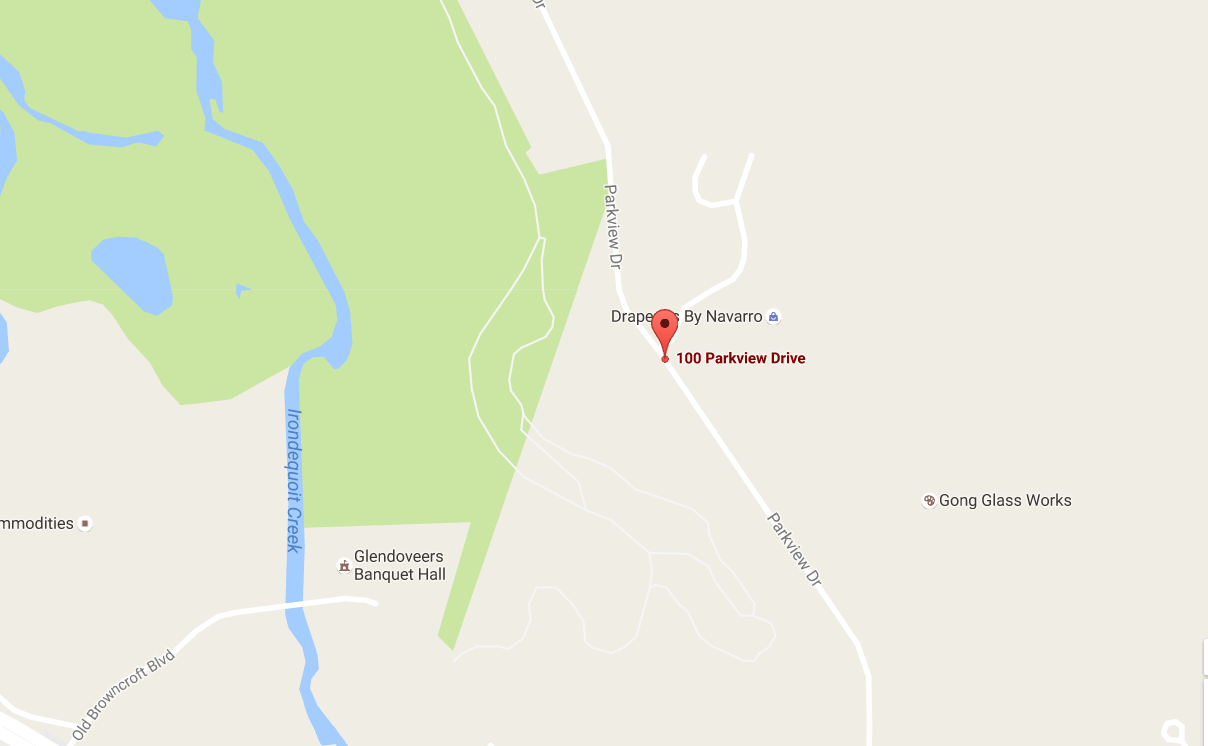
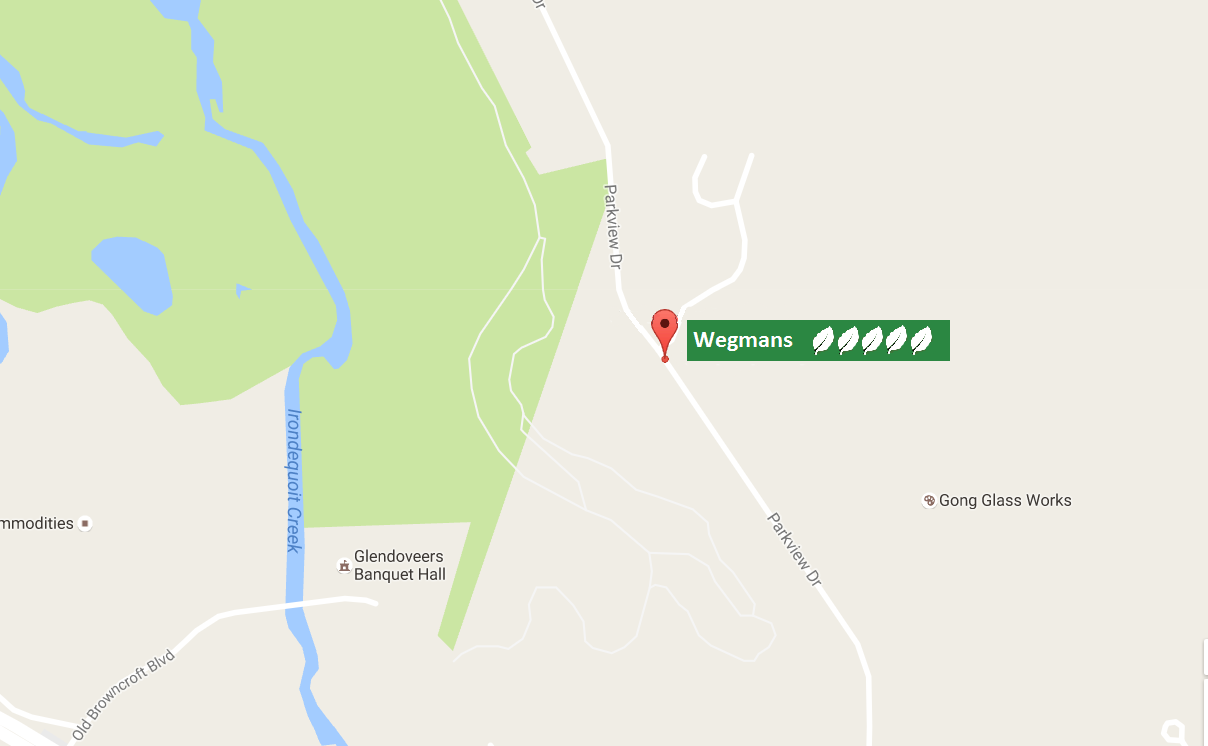
map and search updated

Changed region(s): [[0.4901, 0.4008, 0.7964, 0.4933]]

diff --git a/client/views/searchresults.html b/client/views/searchresults.html
@@ -5,175 +5,37 @@
 
     <div class="col-md-4 Filter" >
         <h1 class="liberation-sans">Filter by</h1>
-        <form>
             <input type="checkbox" name="filter" value="Business">Business<br>
             <input type="checkbox" name="filter" value="Product">Product<br>
             <input type="checkbox" name="filter" value="Rated">Rated<br>
             <div class="Tabbed">
-                <input type="checkbox" name="filter" value="5leaf">5 Leafs<br>
-                <input type="checkbox" name="filter" value="4leaf">4 Leafs<br>
-                <input type="checkbox" name="filter" value="3leaf">3 Leafs<br>
-                <input type="checkbox" name="filter" value="2leaf">2 Leafs<br>
-                <input type="checkbox" name="filter" value="1leaf">1 Leaf<br>
+                <input type="checkbox" name="filter" ng-model="check.rating['5']" value="5">5 Leafs<br>
+                <input type="checkbox" name="filter" ng-model="check.rating['4']" value="4">4 Leafs<br>
+                <input type="checkbox" name="filter" ng-model="check.rating['3']" value="3">3 Leafs<br>
+                <input type="checkbox" name="filter" ng-model="check.rating['2']" value="2">2 Leafs<br>
+                <input type="checkbox" name="filter" ng-model="check.rating['1']" value="1">1 Leaf<br>
             </div>
-        </form>
     </div>
 
     <div class="col-md-8">
 
-            <h1 class="liberation_sans">Search<input type="text">11 Results Found</h1>
+            <h1 class="liberation_sans">Search<input ng-model = "search"></h1>
             <table>
-                <tr onclick="window.location = '/#/product';" style="background-color: #2b8742; height: 50px">
-                    <td style="width: 500px; text-indent: 50px; color: white">
-                        Cabbage
+                <tr  ng-repeat="i in items | filter:search" ng-model="i" ng-class-odd="'odd'" ng-class-even="'even'" >
+                    <td class="Col1">
+                        <a href="/#/product/{{i.id}}" style="color:black">{{i.name}}</a>
                     </td>
-                    <td style="background-color: gray; width: 200px; text-align: left">
-                        <img style="height: 30px" src="../assets/review_leaf_filled.png"/>
-                        <img style="height: 30px" src="../assets/review_leaf_filled.png"/>
-                        <img style="height: 30px" src="../assets/review_leaf_filled.png"/>
-                        <img style="height: 30px" src="../assets/review_leaf_filled.png"/>
+                    <td ng-class-odd="'oddCol2'" ng-class-even="'evenCol2'">
+                        <span><img style="height: 30px" ng-src="{{i.rating >= 1 ? '../assets/review_leaf_filled.png' : '../assets/review_leaf_empty.png'}}"></span>
+                        <span><img style="height: 30px" ng-src="{{i.rating >= 2 ? '../assets/review_leaf_filled.png' : '../assets/review_leaf_empty.png'}}"></span>
+                        <span><img style="height: 30px" ng-src="{{i.rating >= 3 ? '../assets/review_leaf_filled.png' : '../assets/review_leaf_empty.png'}}"></span>
+                        <span><img style="height: 30px" ng-src="{{i.rating >= 4 ? '../assets/review_leaf_filled.png' : '../assets/review_leaf_empty.png'}}"></span>
+                        <span><img style="height: 30px" ng-src="{{i.rating >= 5 ? '../assets/review_leaf_filled.png' : '../assets/review_leaf_empty.png'}}"></span>
                     </td>
-                    <td style="width: 200px; text-align: right; position: relative; right: 50px">
-                        Product
-                    </td>
-                </tr>
-                <tr onclick="window.location = '/#/businessview';" style="background-color: white; height: 50px">
-                    <td style="width: 500px; text-indent: 50px">
-                        Wegmans
-                    </td>
-                    <td style="background-color: #a9a9a9; width: 200px; text-align: left">
-                        <img style="height: 30px" src="../assets/review_leaf_filled.png"/>
-                        <img style="height: 30px" src="../assets/review_leaf_filled.png"/>
-                        <img style="height: 30px" src="../assets/review_leaf_filled.png"/>
-                        <img style="height: 30px" src="../assets/review_leaf_filled.png"/>
-                        <img style="height: 30px" src="../assets/review_leaf_filled.png"/>
-                    </td>
-                    <td style="width: 200px; text-align: right; position: relative; right: 50px">
-                        Business
-                    </td>
-                </tr>
-                <tr onclick="window.location = '/#/product';" style="background-color: #2b8742; height: 50px">
-                    <td style="width: 500px; text-indent: 50px; color: white">
-                        Best Potato
-                    </td>
-                    <td style="background-color: gray; width: 200px; text-align: left">
-                        <img style="height: 30px" src="../assets/review_leaf_filled.png"/>
-                        <img style="height: 30px" src="../assets/review_leaf_filled.png"/>
-                        <img style="height: 30px" src="../assets/review_leaf_filled.png"/>
-                    </td>
-                    <td style="width: 200px; text-align: right; position: relative; right: 50px">
-                        Product
-                    </td>
-                </tr>
-                <tr onclick="window.location = '/#/product';" style="background-color: white; height: 50px">
-                    <td style="width: 500px; text-indent: 50px">
-                        Carrots
-                    </td>
-                    <td style="background-color: #a9a9a9; width: 200px; text-align: left">
-                        <img style="height: 30px" src="../assets/review_leaf_filled.png"/>
-
-                    </td>
-                    <td style="width: 200px; text-align: right; position: relative; right: 50px">
-                        Product
-                    </td>
-                </tr>
-                <tr onclick="window.location = '/#/product';" style="background-color: #2b8742; height: 50px">
-                    <td style="width: 500px; text-indent: 50px; color: white">
-                        Beer
-                    </td>
-                    <td style="background-color: gray; width: 200px; text-align: left">
-                        <img style="height: 30px" src="../assets/review_leaf_filled.png"/>
-                        <img style="height: 30px" src="../assets/review_leaf_filled.png"/>
-                        <img style="height: 30px" src="../assets/review_leaf_filled.png"/>
-                    </td>
-                    <td style="width: 200px; text-align: right; position: relative; right: 50px">
-                        Product
-                    </td>
-                </tr>
-                <tr onclick="window.location = '/#/product';" style="background-color: white; height: 50px">
-                    <td style="width: 500px; text-indent: 50px">
-                        Apples
-                    </td>
-                    <td style="background-color: #a9a9a9; width: 200px; text-align: left">
-                        <img style="height: 30px" src="../assets/review_leaf_filled.png"/>
-                        <img style="height: 30px" src="../assets/review_leaf_filled.png"/>
-                        <img style="height: 30px" src="../assets/review_leaf_filled.png"/>
-                        <img style="height: 30px" src="../assets/review_leaf_filled.png"/>
-                        <img style="height: 30px" src="../assets/review_leaf_filled.png"/>
-                    </td>
-                    <td style="width: 200px; text-align: right; position: relative; right: 50px">
-                        Product
-                    </td>
-                </tr>
-                <tr onclick="window.location = '/#/product';" style="background-color: #2b8742; height: 50px">
-                    <td style="width: 500px; text-indent: 50px; color: white">
-                        Steak
-                    </td>
-                    <td style="background-color: gray; width: 200px; text-align: left">
-                        <img style="height: 30px" src="../assets/review_leaf_filled.png"/>
-                        <img style="height: 30px" src="../assets/review_leaf_filled.png"/>
-                        <img style="height: 30px" src="../assets/review_leaf_filled.png"/>
-                    </td>
-                    <td style="width: 200px; text-align: right; position: relative; right: 50px">
-                        Product
-                    </td>
-                </tr>
-                <tr onclick="window.location = '/#/product';" style="background-color: white; height: 50px">
-                    <td style="width: 500px; text-indent: 50px">
-                        Cheese
-                    </td>
-                    <td style="background-color: #a9a9a9; width: 200px; text-align: left">
-                        <img style="height: 30px" src="../assets/review_leaf_filled.png"/>
-                        <img style="height: 30px" src="../assets/review_leaf_filled.png"/>
-                        <img style="height: 30px" src="../assets/review_leaf_filled.png"/>
-                        <img style="height: 30px" src="../assets/review_leaf_filled.png"/>
-                    </td>
-                    <td style="width: 200px; text-align: right; position: relative; right: 50px">
-                        Product
-                    </td>
-                </tr>
-                <tr onclick="window.location = '/#/product';" style="background-color: #2b8742; height: 50px">
-                    <td style="width: 500px; text-indent: 50px; color: white">
-                        Good Potato
-                    </td>
-                    <td style="background-color: gray; width: 200px; text-align: left">
-                        <img style="height: 30px" src="../assets/review_leaf_filled.png"/>
-                        <img style="height: 30px" src="../assets/review_leaf_filled.png"/>
-                        <img style="height: 30px" src="../assets/review_leaf_filled.png"/>
-                    </td>
-                    <td style="width: 200px; text-align: right; position: relative; right: 50px">
-                        Product
-                    </td>
-                </tr>
-                <tr onclick="window.location = '/#/product';" style="background-color: white; height: 50px">
-                    <td style="width: 500px; text-indent: 50px">
-                        Pineapple
-                    </td>
-                    <td style="background-color: #a9a9a9; width: 200px; text-align: left">
-                        <img style="height: 30px" src="../assets/review_leaf_filled.png"/>
-                        <img style="height: 30px" src="../assets/review_leaf_filled.png"/>
-                        <img style="height: 30px" src="../assets/review_leaf_filled.png"/>
-                        <img style="height: 30px" src="../assets/review_leaf_filled.png"/>
-                        <img style="height: 30px" src="../assets/review_leaf_filled.png"/>
-                    </td>
-                    <td style="width: 200px; text-align: right; position: relative; right: 50px">
-                        Product
-                    </td>
-                </tr>
-                <tr onclick="window.location = '/#/product';" style="background-color: #2b8742; height: 50px">
-                    <td style="width: 500px; text-indent: 50px; color: white">
-                        Crackers
-                    </td>
-                    <td style="background-color: gray; width: 200px; text-align: left">
-                        <img style="height: 30px" src="../assets/review_leaf_filled.png"/>
-                        <img style="height: 30px" src="../assets/review_leaf_filled.png"/>
-
-                    </td>
-                    <td style="width: 200px; text-align: right; position: relative; right: 50px">
-                        Product
+                    <td class="Col3">
+                        {{i.type}}
                     </td>
                 </tr>
             </table>
-
     </div>
 

diff --git a/client/scripts/SearchCtlr.js b/client/scripts/SearchCtlr.js
@@ -1,0 +1,34 @@
+angular.module('EnviroShop')
+// .service('DataService', function () {})
+.controller('SearchCtlr', ['$scope', 'DataService', '$location', '$routeParams', function ($scope, DataService, $location, $routeParams) {
+
+var path = $location.path();
+
+$scope.id = $routeParams.id;
+
+$scope.showSearchBar = function () {
+    console.log('Would have opened the search bar');
+};
+
+$scope.items = [];
+
+DataService.getSearchItems('bis').then(function successCallback(response) {
+    $scope.items = response.data;
+    $scope.item = $scope.items[$scope.id - 1]
+    }, function errorCallback(response) {
+    console.log('REST call for info not set up');
+    });
+}]);
+
+
+
+
+
+
+/*        if(path.includes('productview')) {
+            $('#userButton').css('color', 'white');
+        }
+
+        else {
+            console.log("path doesn't contain productview in it");
+        }*/

diff --git a/client/styles/search.css b/client/styles/search.css
@@ -24,3 +24,39 @@ height: 100%
     position: relative;
     left: 30px;
 }
+
+.odd {
+    background-color: #2b8742;
+    height: 50px;
+}
+
+.Col1 {
+    width: 500px;
+    text-indent: 50px;
+}
+
+.oddCol2 {
+    background-color: gray;
+    width: 200px;
+    text-align: left;
+}
+
+.Col3 {
+    width: 200px;
+    text-align: right;
+    position: relative;
+    right: 50px;
+}
+
+.even {
+    background-color: white;
+    height: 50px;
+}
+
+
+.evenCol2 {
+    background-color: #a9a9a9;
+    width: 200px;
+    text-align: left;
+}
+

diff --git a/client/scripts/DataService.js b/client/scripts/DataService.js
@@ -26,4 +26,8 @@ angular.module('EnviroShop').service('DataService', ['$http', function($http) {
     this.getProductReviews = function (product) {
       return $http.get(urlBaseUtil + '/' + 'wegmansproductreviews.json');
     };
+
+    this.getSearchItems = function (business) {
+        return $http.get(urlBaseUtil + '/' + 'search.json');
+    };
 }]);

diff --git a/client/app.js b/client/app.js
@@ -49,7 +49,7 @@ app.config(['$routeProvider', function ($routeProvider) {
         })
         .when('/search', {
             templateUrl: 'views/searchresults.html',
-            controller: ''
+            controller: 'SearchCtlr'
         })
         .when('/review', {
             templateUrl: 'views/review.html',

diff --git a/client/index.html b/client/index.html
@@ -38,6 +38,7 @@
     <script src="scripts/NewReviewCtlr.js"></script>
     <script src="scripts/SmallProductCtlr.js"></script>
     <script src="scripts/ProductViewCtlr.js"></script>
+    <script src="scripts/SearchCtlr.js"></script>
 
 
     <!-- (JS) Custom AngularJS DataService -->

diff --git a/client/views/map.html b/client/views/map.html
@@ -4,5 +4,6 @@
 
 <navbar></navbar>
 
+<h1 class="liberation_sans">Showing All Local Stores</h1>
 <div onclick="window.location = '/#/businessview';" style="height: 1000px"><body></body></div>
 
